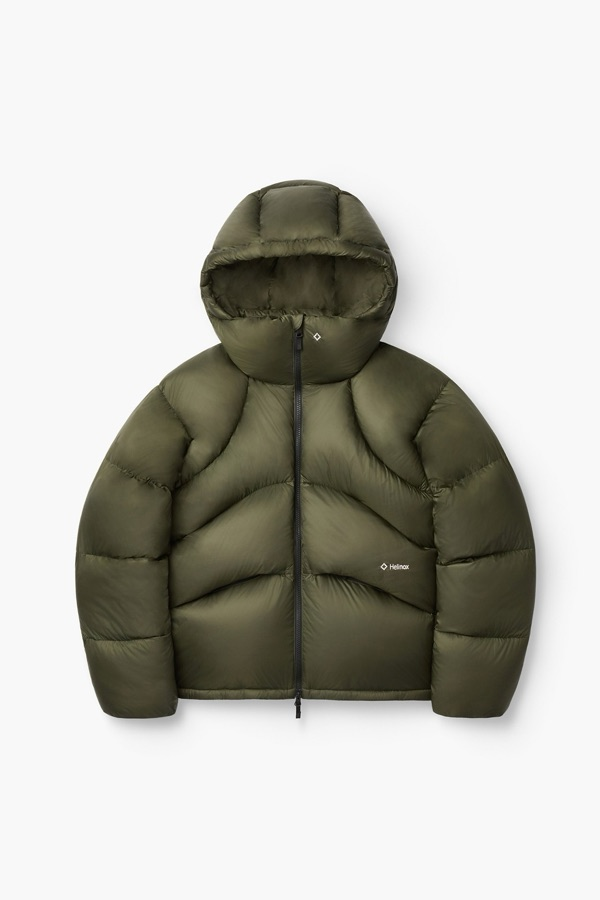
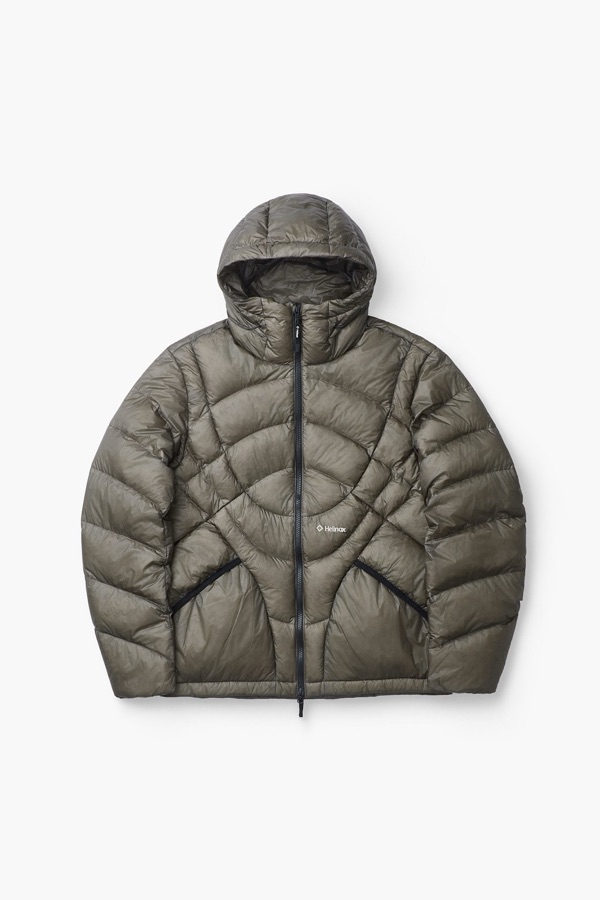
아우터를 이클립스 팩 다운 자켓 베이지 S로 변경

Changed region(s): [[0.12, 0.1867, 0.93, 0.84]]

diff --git a/index.html b/index.html
@@ -142,7 +142,7 @@ tbody tr:hover td{background:var(--surface)}
 
 <script>
 const P = [
-  {n:"ZERO 솔라 다운",cat:"아우터",color:"카키",hex:"#555B3C",size:"M",price:720000,img:"img/down.jpg",url:"https://www.helinoxwear.com/Product/OXJDW26071KHX"},
+  {n:"이클립스 팩 다운 자켓",cat:"아우터",color:"베이지",hex:"#8A8574",size:"S",price:520000,img:"img/down.jpg",url:"https://www.helinoxwear.com/Product/OXJDW26201BEX"},
   {n:"카모 플리스 하프 집업",cat:"상의",color:"다크 브라운",hex:"#4A4538",size:"M",price:240000,img:"img/fleece.jpg",url:"https://www.helinoxwear.com/Product/OXTBW26213BRD"},
   {n:"이클립스 알파 윈드 카고팬츠",cat:"하의",color:"다크 레드",hex:"#8A3B36",size:"S",price:320000,img:"img/pants.jpg",url:"https://www.helinoxwear.com/Product/OXPNW26221RED"},
   {n:"폴라텍 200 캠프캡",cat:"액세서리",color:"블랙",hex:"#1B1C1E",size:"M",price:85000,img:"img/cap.jpg",url:"https://www.helinoxwear.com/Product/OGREW26211BKX"}
